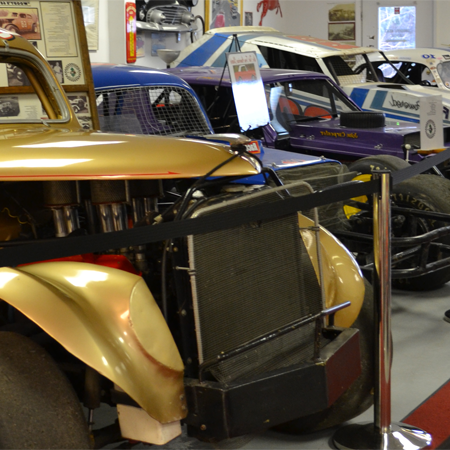
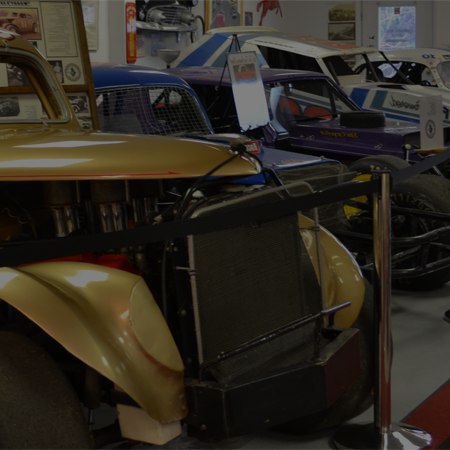
Home page revisit
- Darker hero img.
- Text elements instead of svg.
- Cleaned up old hero-title stuff.

diff --git a/vamnj-org/index.css b/vamnj-org/index.css
@@ -1,4 +1,4 @@
-@import url('https://fonts.googleapis.com/css2?family=Cookie&display=swap');
+@import url('https://fonts.googleapis.com/css2?family=Coiny&display=swap');
 
 h1 {
     font-size: 1.7rem;
@@ -59,25 +59,22 @@ h2 {
 }
 /* ~~~ NEW ~~~ */
 #splash-hero {
+    background-image: url('/vamnj-org/images/home-01.png');
     display: flex;
     flex-direction: column; /* Stack image and text vertically */
     justify-content: center;
-    align-items: stretch;
+    align-items: center;
     /*margin-bottom: 2rem;*/
     /*padding: 0 20px;*/
-    
+    background-size: cover;
+    background-position: center;
+
     /* For SVG overlay */
-    position: relative;
+    /*position: relative;*/
     width: 100%;
+    height: auto;
     /*max-width: 1000px; /* optional */
     margin: 0 auto 7rem auto;
-}
-
-.hero-title {
-    font-family: "Cookie", "Times New Roman", serif;
-    font-size: 2.7em;/*clamp(2.5rem, 5.5vw, 4rem);*/
-    text-align: center;
-    margin-bottom: 0;
 }
 
 /* Container for the hero image and embellishments */
@@ -115,29 +112,47 @@ h2 {
 
 /* Hero SVG overlay stuff */
 .overlay {
-  position: absolute;
+  /*position: absolute;
   left: 50%;
-  transform: translateX(-50%);
+  transform: translateX(-50%);*/
   width: 100%;
   height: auto;
+  font-weight: 100;
+}
+.overlay.top,
+.overlay.bottom {
+    font-family: "Coiny", "Times New Roman", serif;
+    font-size: clamp(1.1rem, 4vw, 2rem);/*2.5rem;*/
+    color: white;
+    font-style: normal;
+    text-align: center;
+    width: 95%;
+    text-shadow:
+    -2px -2px 4px black,
+     2px -2px 4px black,
+    -2px  2px 4px black,
+     2px  2px 4px black;
 }
 .overlay.top {
-    top: 0;
+    /*top: 0;*/
     margin-top: 20px; /* adjust as needed */
 }
 .overlay.middle {
-    top: 50%;
-    transform: translate(-50%, -77%);
-    max-width: 45%;
+    /*top: 50%;
+    transform: translate(-50%, -77%);*/
+    width: 45%;
+    height: auto;
+    max-width: 260px;
 }
 .overlay.bottom {
-    bottom: 0;
+    /*bottom: 0;*/
     margin-bottom: 20px; /* adjust as needed */
+    font-size: clamp(1.7rem, 5.5vw, 3rem);/*3.5rem;*/
 }
 .overlay.top,
 .overlay.middle,
 .overlay.bottom {
-  filter: drop-shadow(0px 0px 6px rgba(0, 0, 0, 1));
+  filter: drop-shadow(0px 0px 4px rgba(0, 0, 0, 1));
 }
 
 #teaser {
@@ -264,9 +279,9 @@ h2 {
 @media (min-width: 400px) { /* For VAMNJ logo at center of hero section */
 
     .overlay.middle {
-        top: 50%;
-        transform: translate(-50%, -83%);
-        max-width: 37%;
+        /*top: 50%;
+        transform: translate(-50%, -83%);*/
+        /*max-width: 37%;*/
     }
 }
 
@@ -287,13 +302,13 @@ h2 {
         background: repeating-linear-gradient(to bottom, #fff4e6, #ffeae6, #f0f8ff, #ffeae6, #fff4e6); /*Faint sand, LH-red, car-blue, LH-red, sand*/
     }
     
-    .overlay.top,
+    /*.overlay.top,
     .overlay.bottom {
         width: 50%;
-    }
+    }*/
     .overlay.middle {
-        transform: translate(-50%, -79%);
-        max-width: 21%;
+        /*transform: translate(-50%, -79%);*/
+        /*max-width: 21%;*/
     }
     
     .hero-title {
@@ -357,13 +372,13 @@ h2 {
 
 @media (min-width: 830px) { /* Hero elements */
     
-    .overlay.top,
+    /*.overlay.top,
     .overlay.bottom {
         width: 45%;
-    }
+    }*/
     .overlay.middle {
-        transform: translate(-50%, -85%);
-        max-width: 16%;
+        /*transform: translate(-50%, -85%);*/
+        /*max-width: 16%;*/
     }
 }
 
@@ -388,13 +403,13 @@ h2 {
         width: clamp(260px, 23vw, 350px);
     }
     
-    .overlay.top,
+    /*.overlay.top,
     .overlay.bottom {
         width: 42%;
-    }
+    }*/
     .overlay.middle {
-        transform: translate(-50%, -85%);
-        max-width: 15%;
+        /*transform: translate(-50%, -85%);*/
+        /*max-width: 15%;*/
     }
 }
 

diff --git a/vamnj-org/index.html b/vamnj-org/index.html
@@ -63,21 +63,22 @@
         <!-- TITLE -- HERO SPLASH -->
         <section id="splash-hero">
             <!--<div class="framed-hero-image-container">-->
-                <!--<img id="hero-image" src="/vamnj-org/images/home-01.png" alt="Row of classic cars" class="fade-in-shortest" />-->
+                <!--<img id="hero-image" src="/vamnj-org/images/home-01.png" alt="Row of classic cars" class="fade-in-shortest" />
                 <picture>
                     <source media="(min-width: 768px)" srcset="/vamnj-org/images/home-01.png">
                     <img src="/vamnj-org/images/home-01-small.png" alt="Row of classic cars" id="hero-image" class="fade-in-shortest">
-                </picture>
+                </picture>-->
+                <h1 class="overlay top fade-in-shortest">Welcome to</h1>
                 <img src="/vamnj-org/images/vamnj_logo.png" alt="VAMNJ Logo" class="overlay middle fade-in-shortest">
-                <img src="/vamnj-org/images/hero-text-1.svg" alt="Take a trip down memory lane at..." class="overlay top fade-in-shortest">
-                <img src="/vamnj-org/images/hero-text-2.svg" alt="The Vintage Automobile Museum of New Jersey!" class="overlay bottom fade-in-shortest">
+                <h1 class="overlay bottom fade-in-shortest">The Vintage Automobile Museum <span class="nowrap">of New Jersey</span></h1>
+                <!--<img src="/vamnj-org/images/hero-text-1.svg" alt="Take a trip down memory lane at..." class="overlay top fade-in-shortest">-->
+                <!--<img src="/vamnj-org/images/hero-text-2.svg" alt="The Vintage Automobile Museum of New Jersey!" class="overlay bottom fade-in-shortest">-->
             <!--</div>-->
             <!--<img class="body-img original-logo fade-in-long" src="/vamnj-org/images/header/footer_logo.svg" alt="VAMNJ logo">-->
         </section>
         
         <!--<div class="splash-left scroll-fade">
             <img class="body-img separator" src="/vamnj-org/images/separator.svg" alt="Separator line with tiny car at center">
-            <h1 class="hero-title fade-in-longest">Take a drive down <span class="nowrap">memory lane!</span></h1>
         </div>-->
         <div id="teaser" class="body-content centered italics fade-in-shortest"><h1>Take a drive down memory lane...</h1></div>
         
